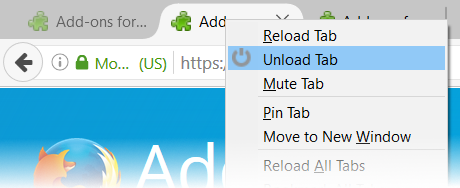
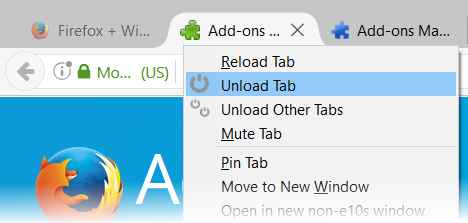
fix left-over item when removing

diff --git a/main.js b/main.js
@@ -8,7 +8,6 @@ const NameSpace = require('sdk/core/namespace').ns;
 const Prefs = require('sdk/simple-prefs');
 const { Hotkey, } = require('sdk/hotkeys');
 const baseUrl = require('sdk/self').data.url('../');
-console.log('bu', baseUrl);
 
 const gSessionStore = Cc["@mozilla.org/browser/sessionstore;1"].getService(Ci.nsISessionStore);
 Cu.importGlobalProperties([ 'btoa', ]); /* global btoa */
@@ -185,7 +184,7 @@ function windowOpened(window) {
 		const menu = event.target;
 		currentTab = menu.contextTab || menu.triggerNode;
 
-		let itemThis = menu.children.context_unloadTab, itemOthers;
+		let itemThis = menu.children.context_unloadTab;
 
 		if (!itemThis) {
 			_private(gBrowser).itemThis = itemThis = document.createElement('menuitem');
@@ -195,6 +194,8 @@ function windowOpened(window) {
 			menu.insertBefore(itemThis, menu.children.context_reloadTab.nextSibling);
 			itemThis.addEventListener('command', event => unloadTab(gBrowser, currentTab));
 
+			let itemOthers = menu.children.context_unloadOtherTabs;
+			itemOthers && itemOthers.remove();
 			_private(gBrowser).itemOthers = itemOthers = document.createElement('menuitem');
 			itemOthers.id = 'context_unloadOtherTabs';
 			itemOthers.class = 'menu-iconic';
@@ -232,11 +233,12 @@ function windowClosed(window) {
 	const { gBrowser, } = viewFor(window);
 	const { tabContainer, } = gBrowser;
 	const { contextMenu, } = tabContainer;
-	const { onClose, onContext, styleElement, itemThis, } = _private(gBrowser);
+	const { onClose, onContext, styleElement, itemThis, itemOthers, } = _private(gBrowser);
 
-	itemThis && itemThis.remove();
+	itemThis     && itemThis.remove();
+	itemOthers   && itemOthers.remove();
 	tabContainer && tabContainer.removeEventListener('TabClose', onClose, false);
-	contextMenu && contextMenu.removeEventListener('popupshowing', onContext, false);
+	contextMenu  && contextMenu.removeEventListener('popupshowing', onContext, false);
 	styleElement && styleElement.remove();
 }
 
